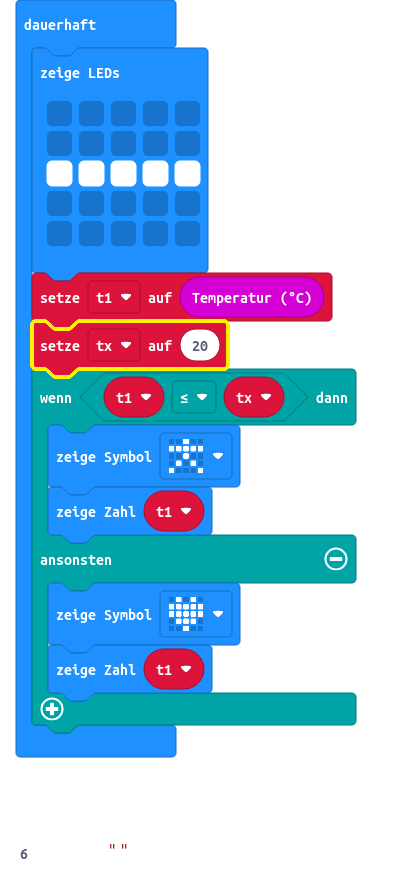
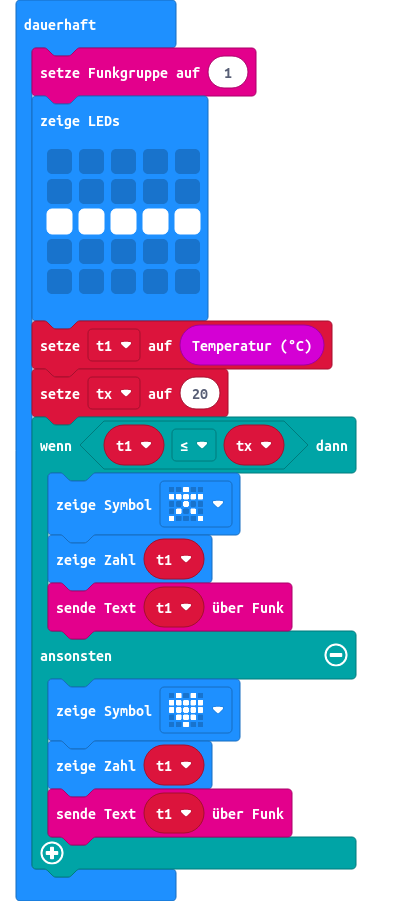
thermostat-v1-fu-1

diff --git a/main.ts b/main.ts
@@ -1,6 +1,7 @@
 let t1 = 0
 let tx = 0
 basic.forever(function () {
+    radio.setGroup(1)
     basic.showLeds(`
         . . . . .
         . . . . .
@@ -13,8 +14,10 @@ basic.forever(function () {
     if (t1 <= tx) {
         basic.showIcon(IconNames.StickFigure)
         basic.showNumber(t1)
+        radio.sendString("" + (t1))
     } else {
         basic.showIcon(IconNames.Heart)
         basic.showNumber(t1)
+        radio.sendString("" + (t1))
     }
 })
